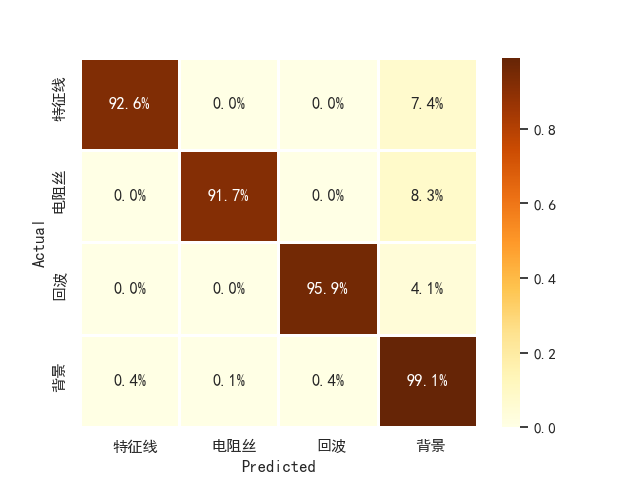
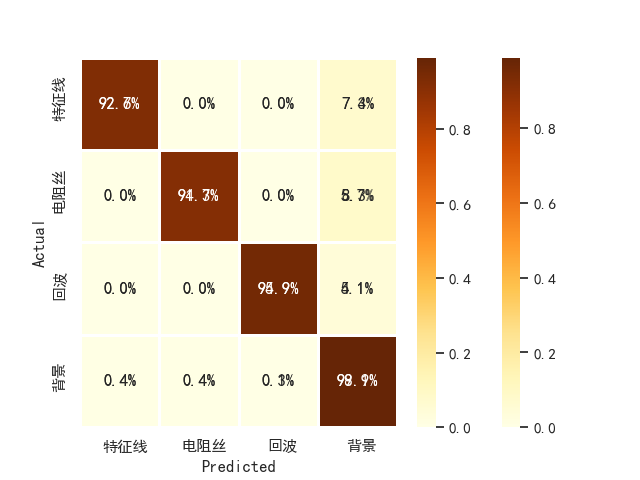
update

diff --git a/混淆矩阵/plt.py b/混淆矩阵/plt.py
@@ -3,29 +3,34 @@ import numpy as np
 from sklearn.metrics import confusion_matrix
 import matplotlib.pyplot as plt
 import seaborn as sns
+import os
 
-# 定义真实标签和预测标签
-true_labels = np.array([0, 1, 2, 0, 1, 2, 0, 1, 2])
-pred_labels = np.array([0, 1, 1, 0, 2, 2, 0, 1, 2])
+mutix = [
+    ['ghsalt000539.png', '0.927', '0.073', '0.943', '0.057', '0.949', '0.051', '0.989', '0.004', '0.003', '0.004'],
+    ['kd10.png', '0.926', '0.074', '0.917', '0.083', '0.959', '0.041', '0.991', '0.004', '0.001', '0.004'],
+    ['normal105.png', '0.906', '0.094', '0.912', '0.088', '0.924', '0.076', '0.987', '0.005', '0.004', '0.004']
+]
 
-# 计算混淆矩阵
-confusion_matrix = np.zeros((4, 4), dtype=np.float32)
-confusion_matrix[0][0] = 0.926
-confusion_matrix[0][3] = 0.074
-confusion_matrix[1][1] = 0.917
-confusion_matrix[1][3] = 0.083
-confusion_matrix[2][2] = 0.959
-confusion_matrix[2][3] = 0.041
-confusion_matrix[3][3] = 0.991
-confusion_matrix[3][0] = 0.004
-confusion_matrix[3][1] = 0.001
-confusion_matrix[3][2] = 0.004
+savepath='混淆矩阵'
+for num in mutix:
+    # 计算混淆矩阵
+    confusion_matrix = np.zeros((4, 4), dtype=np.float32)
+    confusion_matrix[0][0] = num[1]
+    confusion_matrix[0][3] = num[2]
+    confusion_matrix[1][1] = num[3]
+    confusion_matrix[1][3] = num[4]
+    confusion_matrix[2][2] = num[5]
+    confusion_matrix[2][3] = num[6]
+    confusion_matrix[3][3] = num[7]
+    confusion_matrix[3][0] = num[8]
+    confusion_matrix[3][1] = num[10]
+    confusion_matrix[3][2] = num[9]
 
-# 绘制混淆矩阵图
-sns.set()
-sns.heatmap(confusion_matrix, annot=True, cmap="YlOrBr", fmt='.1%', xticklabels=['特征线', '电阻丝', '回波', '背景'], yticklabels=['特征线', '电阻丝', '回波', '背景'], linewidths=1)
-plt.rcParams['font.sans-serif'] = ['SimHei']
-plt.rcParams['axes.unicode_minus'] = False
-plt.xlabel('Predicted')
-plt.ylabel('Actual')
-plt.savefig('fig1.png')
+    # 绘制混淆矩阵图
+    sns.set()
+    sns.heatmap(confusion_matrix, annot=True, cmap="YlOrBr", fmt='.1%', xticklabels=['特征线', '电阻丝', '回波', '背景'], yticklabels=['特征线', '电阻丝', '回波', '背景'], linewidths=1)
+    plt.rcParams['font.sans-serif'] = ['SimHei']
+    plt.rcParams['axes.unicode_minus'] = False
+    plt.xlabel('Predicted')
+    plt.ylabel('Actual')
+    plt.savefig(os.path.join(savepath,num[0]))
